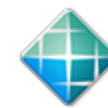
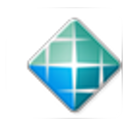
Certificados simetricos com botoes coloridos, tipografia com glow, sem travessoes e scroll mais leve

diff --git a/portifolio-site/css/style.css b/portifolio-site/css/style.css
@@ -20,6 +20,7 @@ body {
   background: var(--bg);
   color: var(--texto);
   font-family: "Space Grotesk", system-ui, sans-serif;
+  font-weight: 500;
   overflow-x: hidden;
 }
 .mono { font-family: "JetBrains Mono", monospace; }
@@ -27,14 +28,18 @@ a { color: inherit; text-decoration: none; }
 img { max-width: 100%; }
 
 /* ===== fundo que passeia ===== */
-.bg { position: fixed; inset: -20%; z-index: -1; pointer-events: none; }
+.bg { position: fixed; inset: -20%; z-index: -1; pointer-events: none; will-change: transform; transform: translateZ(0); }
 .bg-grid {
   position: absolute; inset: 0;
+  mask-image: radial-gradient(ellipse 90% 80% at 50% 50%, #000 40%, transparent 100%);
+}
+.bg-grid-mov {
+  position: absolute; inset: -680px 0 0 0;
   background-image:
     linear-gradient(rgba(120,170,255,.06) 1px, transparent 1px),
     linear-gradient(90deg, rgba(120,170,255,.06) 1px, transparent 1px);
   background-size: 64px 64px;
-  mask-image: radial-gradient(ellipse 90% 80% at 50% 50%, #000 40%, transparent 100%);
+  will-change: transform;
 }
 .bg-stars {
   position: absolute; inset: 0;
@@ -204,7 +209,7 @@ img { max-width: 100%; }
   letter-spacing: .02em;
   background: linear-gradient(#f4f8ff, #6fa5f0);
   -webkit-background-clip: text; background-clip: text; color: transparent;
-  filter: drop-shadow(0 10px 30px rgba(0,0,0,.6)) drop-shadow(0 0 46px var(--glow));
+  text-shadow: 0 10px 30px rgba(0,0,0,.55), 0 0 46px var(--glow);
 }
 
 /* ===== skills / teclado ===== */
@@ -342,8 +347,8 @@ img { max-width: 100%; }
   padding: 5px 12px; border-radius: 6px;
 }
 .card-corpo { padding: 20px; display: flex; flex-direction: column; gap: 12px; flex: 1; }
-.card-corpo h3 { font-size: 1.12rem; }
-.card-corpo p { color: var(--texto-2); font-size: .9rem; line-height: 1.6; flex: 1; }
+.card-corpo h3 { font-size: 1.15rem; font-weight: 700; color: #f2f7ff; text-shadow: 0 0 18px rgba(77,163,255,.4); }
+.card-corpo p { color: #a9bcdc; font-size: .9rem; line-height: 1.65; flex: 1; }
 .card-stack { display: flex; flex-wrap: wrap; gap: 6px; }
 .card-stack span {
   font-family: "JetBrains Mono", monospace; font-size: .66rem; color: var(--texto-2);
@@ -355,9 +360,10 @@ img { max-width: 100%; }
 .card-links .sem-link { color: var(--texto-3); }
 
 /* ===== certificados ===== */
-.certs-grid { display: grid; grid-template-columns: repeat(auto-fill, minmax(340px, 1fr)); gap: 22px; }
+.certs-grid { display: grid; grid-template-columns: repeat(2, 1fr); gap: 22px; }
+.cert:first-child { grid-column: 1 / -1; }
 .cert {
-  display: flex; gap: 18px; align-items: flex-start;
+  display: flex; gap: 18px; align-items: stretch;
   background: var(--panel); border: 1px solid var(--linha); border-radius: 16px;
   padding: 22px; transition: transform .25s, border-color .25s;
 }
@@ -368,16 +374,32 @@ img { max-width: 100%; }
   background: color-mix(in srgb, var(--c) 22%, #101014);
   border: 1px solid color-mix(in srgb, var(--c) 40%, transparent);
 }
-.cert-logo img { width: 32px; height: 32px; }
-.cert-corpo h3 { font-size: 1rem; margin-bottom: 4px; }
-.cert-meta { font-family: "JetBrains Mono", monospace; font-size: .68rem; letter-spacing: .12em; color: var(--accent); text-transform: uppercase; }
-.cert-corpo p { color: var(--texto-2); font-size: .86rem; line-height: 1.6; margin-top: 8px; }
-.cert-link {
-  display: inline-block; margin-top: 12px;
-  font-family: "JetBrains Mono", monospace; font-size: .74rem;
-  color: var(--accent);
+.cert-logo img { width: 34px; height: 34px; }
+.cert-corpo { display: flex; flex-direction: column; flex: 1; }
+.cert-corpo h3 {
+  font-size: 1.15rem; font-weight: 700; margin-bottom: 4px;
+  color: #f2f7ff; text-shadow: 0 0 18px rgba(77,163,255,.45);
 }
-.cert-link:hover { text-decoration: underline; }
+.cert-meta {
+  font-family: "JetBrains Mono", monospace; font-size: .7rem; font-weight: 700;
+  letter-spacing: .12em; color: var(--accent); text-transform: uppercase;
+  text-shadow: 0 0 14px var(--glow);
+}
+.cert-corpo p { color: #a9bcdc; font-size: .9rem; line-height: 1.65; margin: 8px 0 14px; }
+.cert-link {
+  align-self: flex-start; margin-top: auto;
+  font-family: "JetBrains Mono", monospace; font-size: .74rem; font-weight: 700;
+  padding: 8px 16px; border-radius: 8px;
+  color: #e7f1ff;
+  background: color-mix(in srgb, var(--c) 26%, transparent);
+  border: 1px solid color-mix(in srgb, var(--c) 55%, transparent);
+  text-shadow: 0 0 12px color-mix(in srgb, var(--c) 80%, transparent);
+  transition: background .2s, box-shadow .2s;
+}
+.cert-link:hover {
+  background: color-mix(in srgb, var(--c) 40%, transparent);
+  box-shadow: 0 0 22px color-mix(in srgb, var(--c) 45%, transparent);
+}
 
 /* ===== contato ===== */
 .contato { text-align: center; padding-bottom: 60px; }

diff --git a/portifolio-site/js/data.js b/portifolio-site/js/data.js
@@ -1,12 +1,12 @@
 /* =========================================================
-   DADOS DO PORTFÓLIO — edite aqui, sem mexer no resto!
+   DADOS DO PORTFÓLIO: edite aqui, sem mexer no resto!
    ========================================================= */
 
 const PERFIL = {
   nome: "Maxwell Gomes",
   usuario: "maxyzao",
   titulo: "Desenvolvedor Full Stack",
-  local: "Fortaleza — CE, Brasil",
+  local: "Fortaleza, CE, Brasil",
   bio: "Criando websites modernos com visual limpo, responsivo e elegante. Transformo ideias e design em experiências digitais que funcionam.",
   cv: "assets/cv-maxwell.pdf",       // ← coloque seu CV em PDF nessa pasta
   frases: [                          // ← frases do efeito de digitação do hero
@@ -23,7 +23,7 @@ const PERFIL = {
 };
 
 /* ---------------------------------------------------------
-   SKILLS — cada uma vira uma keycap do teclado 3D.
+   SKILLS: cada uma vira uma keycap do teclado 3D.
    icon: nome do ícone no Devicon (https://devicon.dev)
          ou use  text: "API"  para tecla só com texto.
    key:  tecla física do teclado que aciona essa keycap.
@@ -47,7 +47,7 @@ const SKILLS = [
 ];
 
 /* ---------------------------------------------------------
-   PROJETOS — cards com filtro por categoria.
+   PROJETOS: cards com filtro por categoria.
    categoria: aparece como filtro (use a mesma string para agrupar)
    cor: cor de destaque do card
    link / repo: pode deixar "" se não tiver
@@ -73,7 +73,7 @@ const PROJETOS = [
   },
   {
     titulo: "Este Portfólio",
-    desc: "Site pessoal com teclado 3D interativo, crachá com física e animações de scroll — feito do zero, sem frameworks.",
+    desc: "Site pessoal com teclado 3D interativo, crachá com física e animações de scroll, feito do zero, sem frameworks.",
     categoria: "JavaScript",
     stack: ["HTML", "CSS", "JavaScript", "GSAP"],
     cor: "#6d54c4",
@@ -84,14 +84,14 @@ const PROJETOS = [
 ];
 
 /* ---------------------------------------------------------
-   CERTIFICADOS — logo: caminho de imagem OU icon do Devicon.
+   CERTIFICADOS: logo: caminho de imagem OU icon do Devicon.
    arquivo: caminho do PDF (gera o link "ver certificado").
    --------------------------------------------------------- */
 const CERTIFICADOS = [
   {
-    titulo: "DevQuest — Extensão Universitária",
+    titulo: "DevQuest Extensão Universitária",
     emissor: "FEX Educação • MEC",
-    ano: "2023–2026",
+    ano: "2023 a 2026",
     desc: "Capacitação de 123h registrada por faculdade credenciada junto ao MEC: HTML, CSS, JavaScript, React, TypeScript, Node, SQL, Git e projetos práticos.",
     logo: "assets/devquest.svg",
     cor: "#a855f7",

diff --git a/portifolio-site/index.html b/portifolio-site/index.html
@@ -3,20 +3,20 @@
 <head>
   <meta charset="UTF-8" />
   <meta name="viewport" content="width=device-width, initial-scale=1.0" />
-  <title>Maxwell Gomes — Desenvolvedor Full Stack</title>
+  <title>Maxwell Gomes | Desenvolvedor Full Stack</title>
   <meta name="description" content="Portfólio de Maxwell Gomes, Desenvolvedor Full Stack em Fortaleza-CE. React, Node.js, Python, AWS." />
   <meta name="theme-color" content="#060a14" />
   <link rel="preconnect" href="https://fonts.googleapis.com" />
   <link rel="preconnect" href="https://fonts.gstatic.com" crossorigin />
   <link rel="preconnect" href="https://cdn.jsdelivr.net" />
   <link href="https://fonts.googleapis.com/css2?family=Anton&family=Space+Grotesk:wght@400;500;700&family=JetBrains+Mono:wght@400;700&display=swap" rel="stylesheet" />
-  <link rel="stylesheet" href="css/style.css?v=4" />
+  <link rel="stylesheet" href="css/style.css?v=5" />
 </head>
 <body>
 
   <!-- fundo que "passeia" conforme o scroll -->
   <div class="bg" aria-hidden="true">
-    <div class="bg-grid"></div>
+    <div class="bg-grid"><div class="bg-grid-mov"></div></div>
     <div class="bg-stars"></div>
     <div class="bg-glow"></div>
   </div>
@@ -113,13 +113,13 @@
         <a class="btn btn-borda" id="link-whats" href="#" target="_blank" rel="noopener">WhatsApp ↗</a>
       </div>
       <div class="sociais" id="sociais"></div>
-      <p class="footer mono">© <span id="ano"></span> Maxwell Gomes — feito com CSS 3D e teimosia.</p>
+      <p class="footer mono">© <span id="ano"></span> Maxwell Gomes, feito com CSS 3D e teimosia.</p>
     </section>
   </main>
 
   <script src="https://cdn.jsdelivr.net/npm/gsap@3.12.5/dist/gsap.min.js"></script>
   <script src="https://cdn.jsdelivr.net/npm/gsap@3.12.5/dist/ScrollTrigger.min.js"></script>
-  <script src="js/data.js?v=4"></script>
-  <script src="js/main.js?v=4"></script>
+  <script src="js/data.js?v=5"></script>
+  <script src="js/main.js?v=5"></script>
 </body>
 </html>

diff --git a/portifolio-site/js/main.js b/portifolio-site/js/main.js
@@ -1,5 +1,5 @@
 /* =========================================================
-   PORTFÓLIO — lógica e animações
+   PORTFÓLIO: lógica e animações
    (os dados editáveis ficam em js/data.js)
    ========================================================= */
 
@@ -114,7 +114,7 @@ document.addEventListener("keydown", (e) => {
 });
 
 /* =========================================================
-   CRACHÁ — física elástica realista
+   CRACHÁ: física elástica realista
    O cartão é um corpo com massa pendurado numa fita-mola:
    dá pra puxar em QUALQUER direção, a fita estica e ele
    volta quicando, com balanço angular próprio.
@@ -191,7 +191,7 @@ requestAnimationFrame(fisica);
 gsap.to(".cracha-brilho", { xPercent: 240, duration: 1.4, ease: "power2.inOut", repeat: -1, repeatDelay: 4 });
 
 /* =========================================================
-   PROJETOS — cards + filtros por categoria
+   PROJETOS: cards + filtros por categoria
    ========================================================= */
 const grid = $("#projetos-grid");
 const filtros = $("#filtros");
@@ -250,14 +250,14 @@ gsap.timeline({ defaults: { ease: "power3.out" } })
   .from([".hero-type", ".hero-tags", ".hero-cta"], { opacity: 0, y: 24, stagger: 0.08, duration: 0.5 }, 0.45)
   .from(".lanyard", { y: -560, duration: 1.1, ease: "bounce.out", onComplete: () => { vy += 380; vx += 60; } }, 0.3);
 
-/* fundo desloca conforme rola a página — sensação de passear pelo cenário */
+/* fundo desloca conforme rola a página, sensação de passear pelo cenário */
 gsap.to(".bg", {
   xPercent: -6, yPercent: -9,
   ease: "none",
   scrollTrigger: { trigger: "body", start: "top top", end: "bottom bottom", scrub: 1.2 },
 });
-gsap.to(".bg-grid", {
-  backgroundPosition: "0px 640px",
+gsap.to(".bg-grid-mov", {
+  y: 640,
   ease: "none",
   scrollTrigger: { trigger: "body", start: "top top", end: "bottom bottom", scrub: 1.2 },
 });